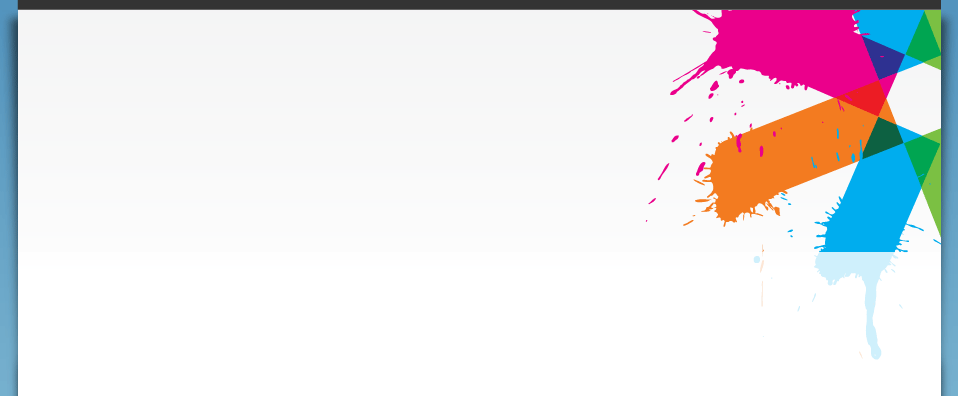
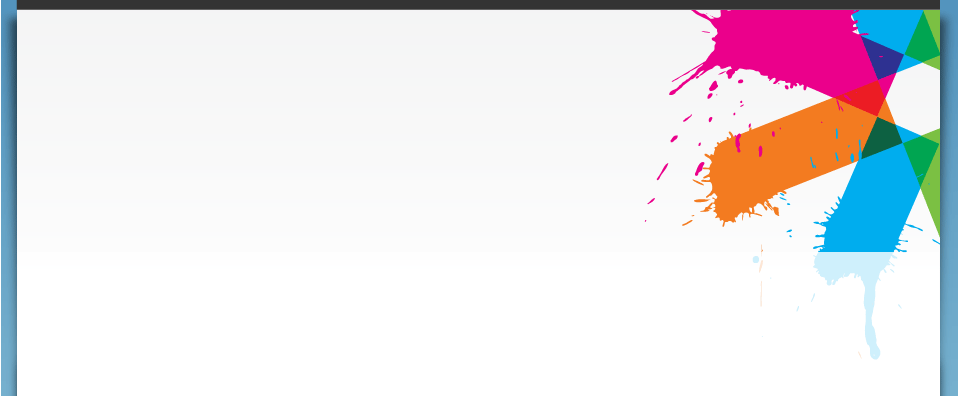
Block position header top changed. New dump. CSS fix.
git-svn-id: http://svn.youthagora.org/satellite/trunk@194 724f02df-c632-4e49-bb9a-5d3e6873b890

diff --git a/profiles/satellite/themes/satellite/satellite.css b/profiles/satellite/themes/satellite/satellite.css
@@ -12,7 +12,22 @@ ul.secondary li.active a, ul.secondary li.active a:link, ul.secondary li.active 
 #header-top { border-top: 7px solid #333; background: #EEEEEE; border-bottom: 1px solid #ddd; float: left; width: 923px;}
 #header-top .block { display: block; float: right;}
 #header-top .inner { padding: .8em;  float: left; width: 900px; }
-#shadow-footer { padding:0 14px 13px; }
+/*#shadow-footer { padding:0 14px 13px; }*/
+#wrapper #container #header { margin-bottom:1.2em; }
+
+/* Same size everywhere */
+body.sidebar-right #wrapper #container #center, 
+body.sidebar-left #wrapper #container #center, 
+body #wrapper #container #center { width:608px; }
+body #wrapper #container .sidebar { width:314px;}
+/*
+body.frontpage #wrapper #container #center { width:608px; }
+body.frontpage #wrapper #container .sidebar { width:314px;}
+*/
+
+.block { border-bottom: 0; }
+#sidebar-right .block, #sidebar-left .block, #center .block {padding: 2em 0;}
+.sidebar { border-bottom:1px solid #DDDDDD; }
 
 #wrapper #container #header-top #block-search-0 { padding-bottom:0; margin-bottom: 0; }
 #wrapper #container #header-top #block-search-0 input.form-text { font-size:0.9em; height:1.2em; }
@@ -46,8 +61,8 @@ ul.secondary li.active a, ul.secondary li.active a:link, ul.secondary li.active 
 
 .outcome-counter {font-size: 1.5em; color: #aaa; margin:0 0.5em; padding-right:20px;}
 
-#block-views-articles-block_1.block-views .views-field-created { margin-left: 1em; }
-#block-views-articles-block_1.block-views .views-field-title span.field-content:before { content: "•"; margin-right: .3em;}
+.sidebar #block-views-articles-block_1.block-views .views-field-created { margin-left: 1em; }
+.sidebar #block-views-articles-block_1.block-views .views-field-title span.field-content:before { content: "•"; margin-right: .3em;}
 
 #block-views-articles-block_2, #block-views-events-block_2 { overflow: hidden; padding: 0; margin: 0; border: 0; padding-top: 0.001em; height: 300px;}
 #block-views-articles-block_2 img, #block-views-events-block_2 img { overflow: hidden; padding: 0; margin: 0; border: 0;}
@@ -62,7 +77,7 @@ ul.secondary li.active a, ul.secondary li.active a:link, ul.secondary li.active 
 .view-id-partners.view-display-id-page_1 .views-field-title a { font-size: 1.2em; color: #555; }
 
 .block { padding-top: 1.2em; margin-bottom: 0;}
-#block-views-spotlights-block_1 { margin-bottom: 0; }
+#block-views-spotlights-block_1.block { margin-bottom: 0; padding-bottom: 0;}
 #header .block { padding-top: 0;}
 td.block {border: 0;}
 
